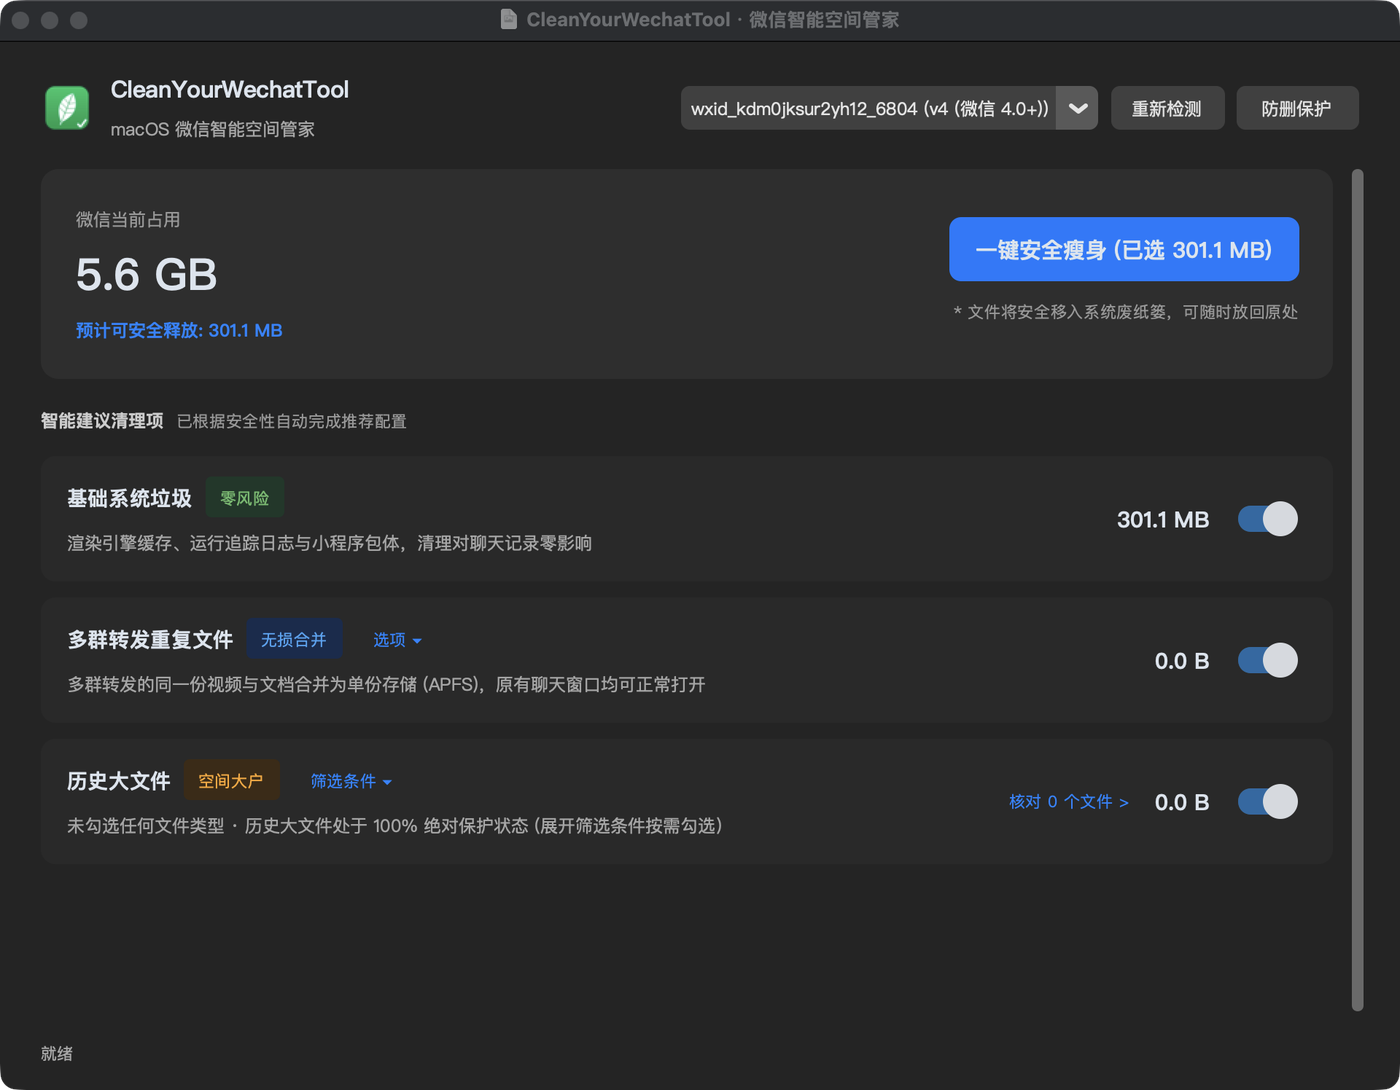
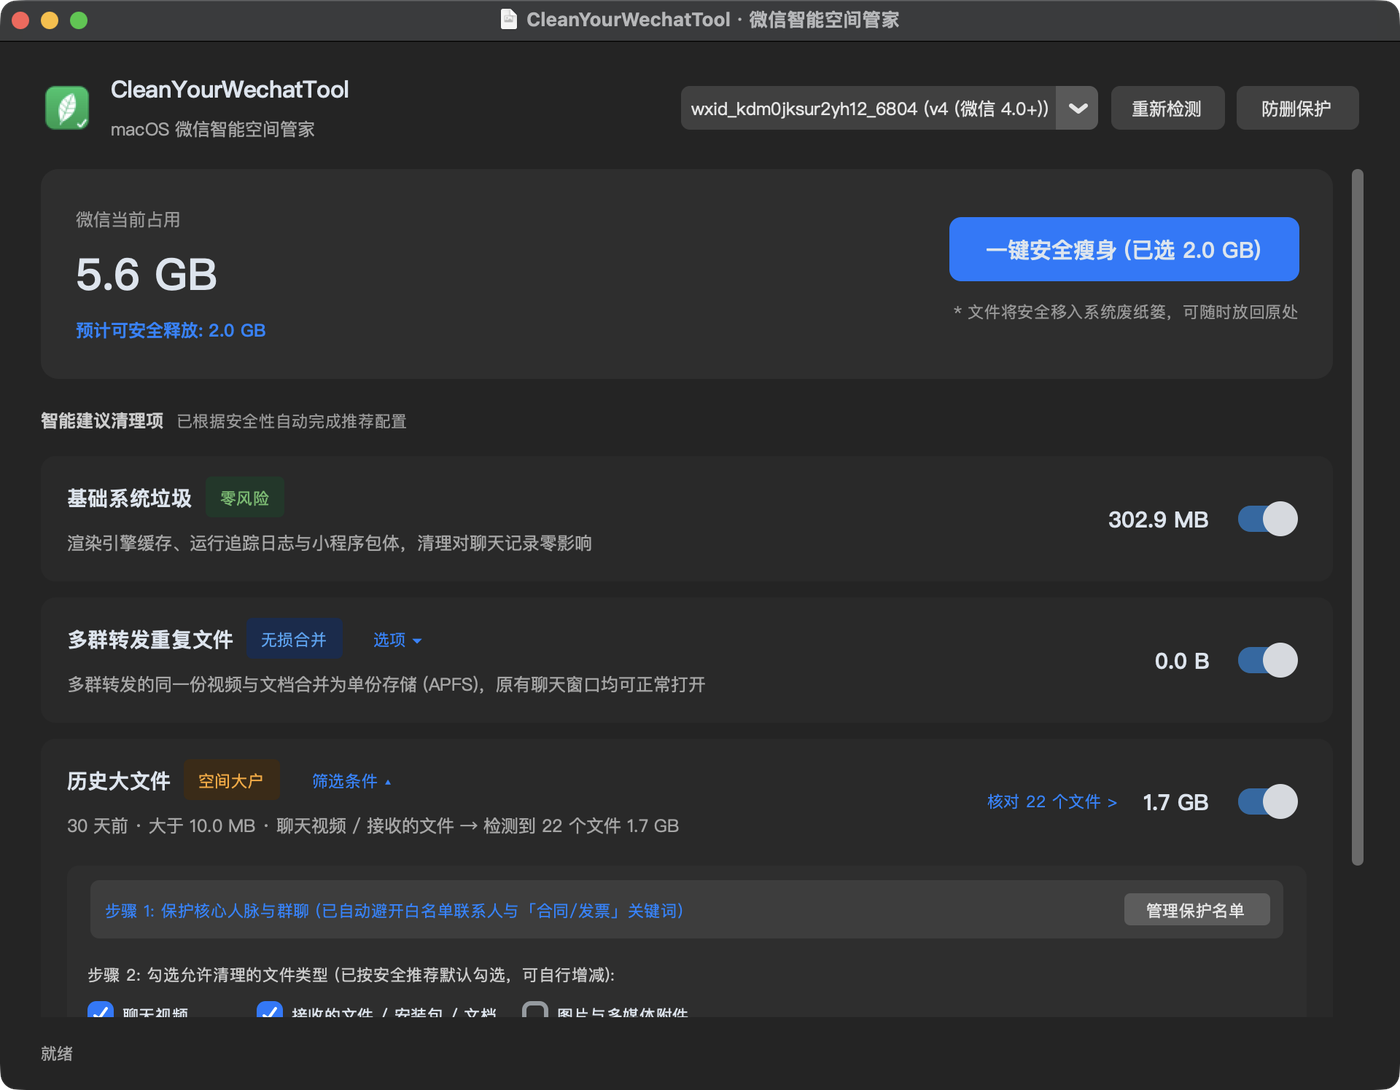
fix(gui): 默认状态看不到价值 + 类型选项与引擎分类不匹配 (P0)
起因: 主界面截图显示"可释放 301.1 MB, 去重 0.0 B, 历史大文件 0.0 B"——
最亮的两个能力首次打开全是 0, 用户会直接判定工具无用。

排查发现两个问题, 其中一个是真实功能 bug:

1. [P0 功能 bug] 文件类型勾选项的 key 与引擎分类不匹配:
   - 界面提供 '临时压缩包/安装包'(archive) 与 '办公重要文档'(document),
     但引擎 scan_account 的真实分类是
     video/file/attach/cache/radium/logs/xplugin —— 根本没有 archive/document
   - 后果: 用户勾选这两项, execute_slimming 里 categories.get(key) 返回
     None 直接 continue, 永远匹配 0 个文件 (勾了等于没勾)
   - 同时引擎真实存在的 file (接收文件, 142 个 / 最大 459MB) 反而没有
     勾选项, 用户无法清理接收到的 .dmg/.exe/.pdf
   - 修复: 类型项改为 video(聊天视频) / file(接收的文件) / attach(图片附件)

2. 默认值牺牲了首次价值感:
   - 时间默认 90 天: 实测本机 90 天阈值匹配 0 个文件 (微信文件多在
     30-90 天内), 用户首次打开必然看到 0
   - 类型默认全不勾选
   - 修复: 默认勾选 video+file (安全推荐项) + 时间默认 30 天
     (清理走废纸篓可恢复且白名单优先, 30 天不激进)

3. 描述文案动态化: 显示"N 天前 · 大于 X · 类型 → 检测到 N 个文件 (Y)",
   无匹配时提示可放宽时间范围 —— 让用户先看到可能性再决定

实测效果 (本机): 可释放 301.1 MB → **2.0 GB** (历史大文件 22 个 / 1.7 GB);
mypy 通过; 主界面截图已更新。

注: 类型 key 与引擎分类的对应关系是硬约束, 建议后续加测试固化。

diff --git a/clean_wechat_gui.py b/clean_wechat_gui.py
@@ -435,7 +435,7 @@ class CleanYourWechatApp:
         self.cl_adv_btn.pack(side='left', padx=4)
 
         self.cl_desc_label = ctk.CTkLabel(
-            cl_left, text='未勾选任何文件类型 · 历史大文件处于 100% 保护锁定状态 (展开筛选条件按需勾选)',
+            cl_left, text='30 天前 · 大于 10MB · 聊天视频 / 接收的文件 (已按安全推荐勾选)',
             font=self.font_card_desc, text_color=('gray45', 'gray65'))
         self.cl_desc_label.pack(anchor='w', pady=(3, 0))
 
@@ -483,19 +483,22 @@ class CleanYourWechatApp:
         r_types.pack(fill='x', pady=(2, 4))
         ctk.CTkLabel(
             r_types,
-            text='步骤 2: 勾选允许清理的文件类型 (默认均不勾选，需主动确认):',
+            text='步骤 2: 勾选允许清理的文件类型 (已按安全推荐默认勾选，可自行增减):',
             font=self.font_small, text_color=('gray30', 'gray80'), anchor='w'
         ).pack(anchor='w', pady=(0, 4))
 
         types_box = ctk.CTkFrame(r_types, fg_color='transparent')
         types_box.pack(fill='x')
         self.large_type_vars = []
-        for label, key in (
-            ('聊天大视频', 'video'),
-            ('临时压缩包/安装包', 'archive'),
-            ('办公重要文档 (锁定保护)', 'document'),
+        # 注意: key 必须与引擎 scan_account 的真实分类一致
+        # (video/file/attach/cache/radium/logs/xplugin); 此前误用不存在的
+        # archive/document, 导致勾选后永远匹配 0 个文件。
+        for label, key, default_on in (
+            ('聊天视频', 'video', True),
+            ('接收的文件 / 安装包 / 文档', 'file', True),
+            ('图片与多媒体附件', 'attach', False),
         ):
-            var = ctk.BooleanVar(value=False)
+            var = ctk.BooleanVar(value=default_on)
             cb = ctk.CTkCheckBox(
                 types_box, text=label, variable=var,
                 command=lambda: self._on_filters_changed(),
@@ -522,7 +525,10 @@ class CleanYourWechatApp:
             selected_hover_color=('#0062CC', '#0070E0'),
             unselected_color=('gray84', 'gray26'),
             unselected_hover_color=('gray78', 'gray32'))
-        self.large_days_box.set(LARGE_DAYS_CHOICES[2][0])
+        # 默认 30 天: 实测 90 天阈值在典型机器上匹配 0 个文件, 首次使用
+        # 会看到 0 B 而误判工具无用; 30 天既能筛出真实大文件又不激进
+        # (清理走废纸篓可恢复, 且白名单优先)。
+        self.large_days_box.set(LARGE_DAYS_CHOICES[0][0])
         self.large_days_box.pack(side='left', fill='x', expand=True)
 
         # 第二行: 最小大小
@@ -759,15 +765,18 @@ class CleanYourWechatApp:
     def _after_diagnose(self, payload) -> None:
         cats, junk_files, dup_groups, large_res, (days, min_bytes, large_types) = payload
         self.current_categories = cats
-        type_names = {'video': '大视频', 'archive': '安装/压缩包', 'document': '办公文档'}
+        type_names = {'video': '聊天视频', 'file': '接收的文件', 'attach': '图片附件'}
         if not large_types:
             self.cl_desc_label.configure(
-                text='未勾选任何文件类型 · 历史大文件处于 100% 绝对保护状态 (展开筛选条件按需勾选)'
+                text='未勾选任何文件类型 · 历史大文件处于 100% 保护状态 (展开筛选条件按需勾选)'
             )
         else:
             types_str = ' / '.join(type_names.get(k, k) for k in large_types)
+            count = len(large_res.affected_files)
+            hint = '' if count else ' · 当前条件无匹配，可展开筛选条件放宽时间范围'
             self.cl_desc_label.configure(
-                text=f'超过 {days} 天且大于 {format_bytes(min_bytes)} 的 {types_str} (已自动避开白名单保护)'
+                text=f'{days} 天前 · 大于 {format_bytes(min_bytes)} · {types_str}'
+                     f' → 检测到 {count} 个文件 {format_bytes(large_res.freed_bytes)}{hint}'
             )
 
         total_bytes = sum(c.total_bytes for c in cats.values())
